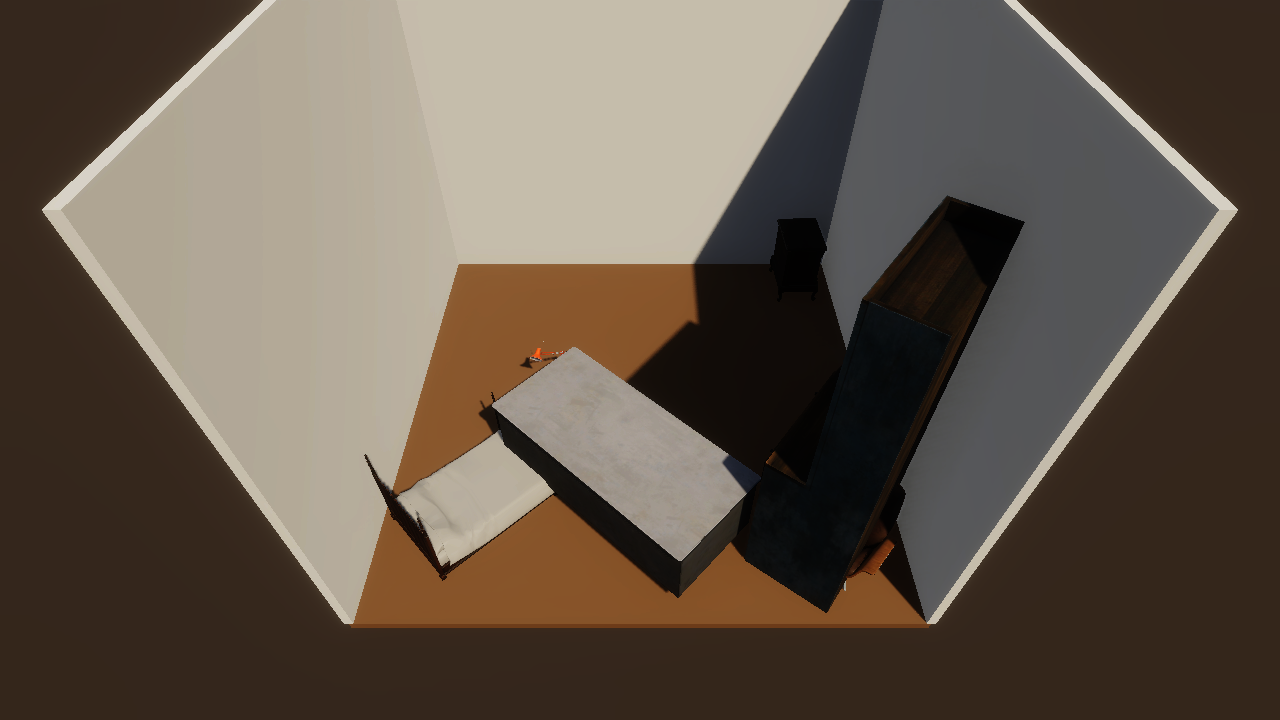
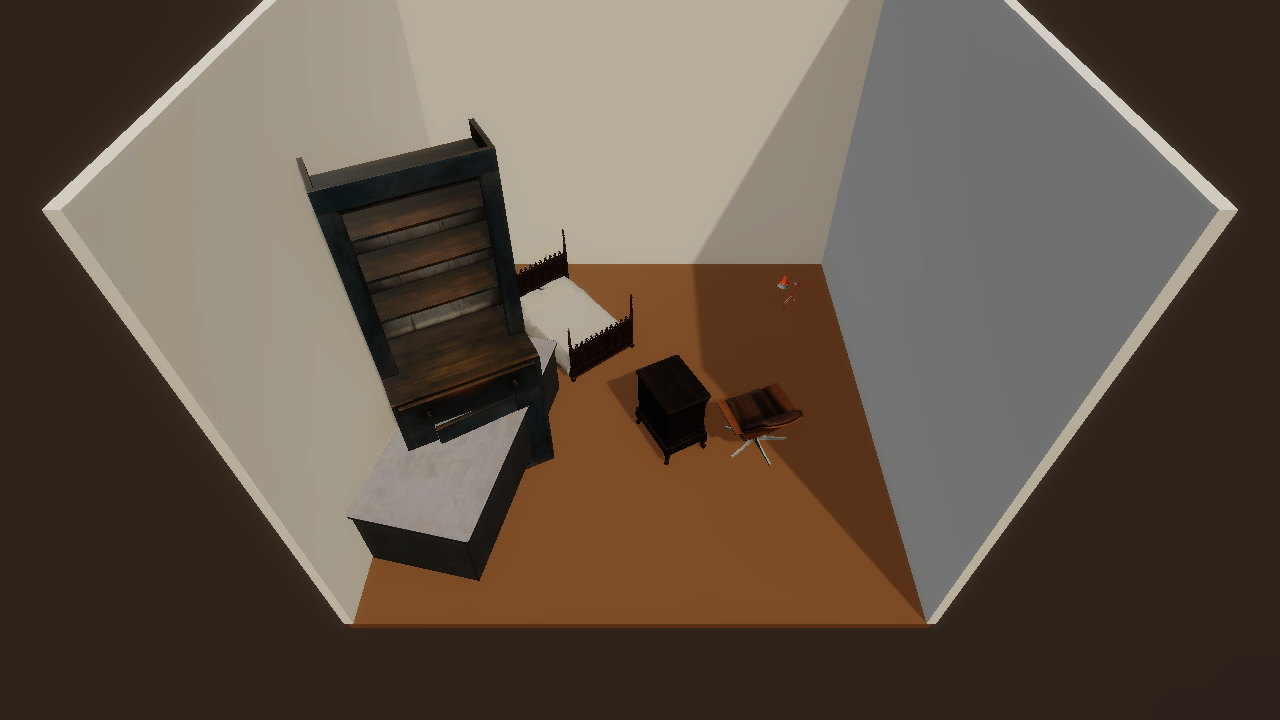
fix(paper03): §4.3 그림 7~12 그림자 완화 — fill light 18000lux + shadowDimmer 0.45 + figure 6매 재측정

diff --git a/SplatForge-UnityClient/Assets/SplatForge/Editor/Paper03/Paper03Runner.cs b/SplatForge-UnityClient/Assets/SplatForge/Editor/Paper03/Paper03Runner.cs
@@ -188,6 +188,8 @@ namespace SplatForge.EditorPaper03
             hdSun.lightUnit = LightUnit.Lux;
             hdSun.SetShadowResolution(2048);
             hdSun.EnableShadows(true);
+            // 그림자 완화 — 0.45 로 약 55% 투명도 적용 (마스터 요청, 2026-04-29).
+            hdSun.shadowDimmer = 0.45f;
 
             var fillGo = new GameObject("Fill");
             var fill = fillGo.AddComponent<Light>();
@@ -195,7 +197,7 @@ namespace SplatForge.EditorPaper03
             fill.color = new Color(0.85f, 0.90f, 1.0f);
             fillGo.transform.rotation = Quaternion.Euler(30f, 150f, 0f);
             var hdFill = fillGo.AddComponent<HDAdditionalLightData>();
-            hdFill.intensity = 8000f;
+            hdFill.intensity = 18000f; // 보조광 강화 (8000 → 18000 lux) — 그림자 영역 보강.
             hdFill.lightUnit = LightUnit.Lux;
             hdFill.EnableShadows(false);
 
@@ -360,6 +362,8 @@ namespace SplatForge.EditorPaper03
             hdSun.lightUnit = LightUnit.Lux;
             hdSun.SetShadowResolution(2048);
             hdSun.EnableShadows(true);
+            // 그림자 완화 — 0.45 로 약 55% 투명도 적용 (마스터 요청, 2026-04-29).
+            hdSun.shadowDimmer = 0.45f;
 
             var fillGo = new GameObject("Fill");
             var fill = fillGo.AddComponent<Light>();
@@ -367,7 +371,7 @@ namespace SplatForge.EditorPaper03
             fill.color = new Color(0.85f, 0.90f, 1.0f);
             fillGo.transform.rotation = Quaternion.Euler(30f, 150f, 0f);
             var hdFill = fillGo.AddComponent<HDAdditionalLightData>();
-            hdFill.intensity = 8000f;
+            hdFill.intensity = 18000f; // 보조광 강화 (8000 → 18000 lux) — 그림자 영역 보강.
             hdFill.lightUnit = LightUnit.Lux;
             hdFill.EnableShadows(false);
 
